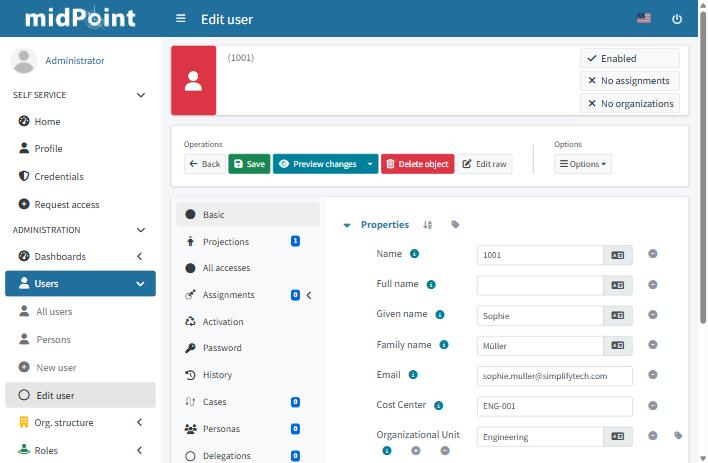
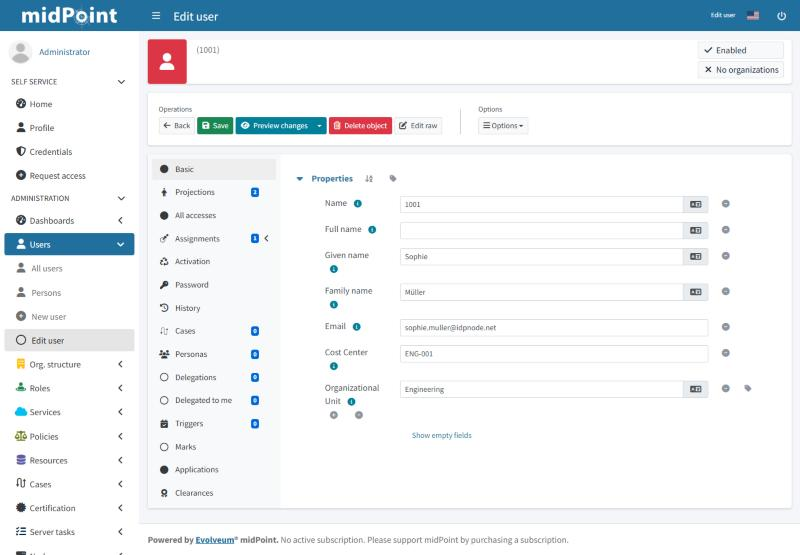
Mark LDAP provisioning done and refresh screenshots

diff --git a/midpoint-iam-lab/README.md b/midpoint-iam-lab/README.md
@@ -1,8 +1,8 @@
 # HR-Driven Identity Lifecycle with midPoint
 
-In this lab I set up Evolveum midPoint so that HR is the source of truth for who works here. My HR system, SimplifyHR, holds the employee records. midPoint reads them, creates a user for each person, and keeps those users in line with HR from then on. OpenLDAP (`dc=idpnode,dc=net`) is set up as the directory that accounts will be pushed out to next.
+In this lab I set up Evolveum midPoint so that HR is the source of truth for who works here. My HR system, SimplifyHR, holds the employee records. midPoint reads them, creates a user for each person, and keeps those users in line with HR from then on. From there, midPoint pushes each person out to OpenLDAP (`dc=idpnode,dc=net`) as a directory account.
 
-> **Where it's at:** Phase 1, getting people from HR into midPoint and keeping them in sync, is done and working. Phase 2, pushing them out to LDAP, is what I'm working on now. See the [roadmap](#roadmap).
+> **Where it's at:** Both phases are done and working. Phase 1 gets people from HR into midPoint and keeps them in sync. Phase 2 provisions them out to LDAP through a role. The full pipeline is written up in [joiner-leaver](joiner-leaver/). See the [roadmap](#roadmap) for what's next.
 
 ---
 
@@ -11,7 +11,7 @@ In this lab I set up Evolveum midPoint so that HR is the source of truth for who
 ```mermaid
 flowchart LR
     HR["SimplifyHR<br/>hr.csv<br/>(system of record)"] -- "CSV connector<br/>inbound mappings" --> MP["midPoint<br/>Identity repository"]
-    MP -. "LDAP connector<br/>outbound mappings<br/>(Phase 2)" .-> LDAP["OpenLDAP<br/>dc=idpnode,dc=net"]
+    MP -- "LDAP connector<br/>outbound mappings<br/>(Employee role)" --> LDAP["OpenLDAP<br/>dc=idpnode,dc=net"]
     ADM["phpLDAPadmin"] --- LDAP
 ```
 
@@ -89,7 +89,7 @@ Here's user `1001` with every HR-sourced attribute filled in, and the HR account
 ![User 1001](screenshots/08-user-1001-attributes.jpg)
 ![User 1001 projection](screenshots/09-user-1001-projection.jpg)
 
-And the LDAP directory, ready for Phase 2:
+And the LDAP directory as it looked before Phase 2, with the base set up and empty. The provisioned entries are in [joiner-leaver](joiner-leaver/):
 
 ![LDAP](screenshots/12-ldap-directory.jpg)
 
@@ -106,7 +106,7 @@ And the LDAP directory, ready for Phase 2:
 
 ## Roadmap
 
-- [ ] **Phase 2: LDAP provisioning.** Add an LDAP resource for `dc=idpnode,dc=net` with outbound mappings (`uid`, `cn`, `sn`, `givenName`, `mail`), putting users under `ou=people`.
+- [x] **Phase 2: LDAP provisioning.** Add an LDAP resource for `dc=idpnode,dc=net` with outbound mappings (`uid`, `cn`, `sn`, `givenName`, `mail`), putting users under `ou=people`. Done: the DN script builds `uid=<empid>,ou=people,dc=idpnode,dc=net`, I also map `departmentNumber` and `employeeNumber`, and an auto-assigned `Employee` role creates the account.
 - [x] Recompute all users so they pick up the current email mapping.
 - [ ] Add a `fullName` mapping (`givenName + ' ' + familyName`).
 - [ ] Create org units per department and birthright roles assigned from `department`.
@@ -121,10 +121,13 @@ And the LDAP directory, ready for Phase 2:
 ├── README.md
 ├── docs/walkthrough.md               How I built it, step by step
 ├── config/
-│   ├── simplifyhr-resource.xml       The midPoint resource definition
+│   ├── simplifyhr-resource.xml       The HR resource definition (inbound)
+│   ├── outbound-mappings.xml         LDAP outbound mappings and correlation
+│   ├── employee-role.xml             Role that creates the LDAP account
 │   └── scripts/
 │       ├── email-generation.groovy
-│       └── status-to-activation.groovy
+│       ├── status-to-activation.groovy
+│       └── ldap-dn.groovy
 ├── joiner-leaver/                    The joiner / leaver use case write-up
 ├── sample-data/hr.csv                The HR file format (one sample row)
 └── screenshots/
@@ -132,4 +135,4 @@ And the LDAP directory, ready for Phase 2:
 
 ## Skills this covers
 
-Identity lifecycle management (joiner/leaver) · designing around an authoritative source · midPoint resource configuration · ConnId CSV connector · inbound mappings and Groovy expressions · correlation and sync policy · reconciliation · LDAP directory design
+Identity lifecycle management (joiner/leaver) · designing around an authoritative source · midPoint resource configuration · ConnId CSV connector · inbound mappings and Groovy expressions · correlation and sync policy · reconciliation · outbound mappings and DN construction · role-based provisioning · LDAP directory design

diff --git a/midpoint-iam-lab/joiner-leaver/README.md b/midpoint-iam-lab/joiner-leaver/README.md
@@ -31,9 +31,13 @@ User 1001's linked accounts: the SimplifyHR record and the OpenLDAP entry at `ui
 
 The `Employee` business role. Its one inducement is an OpenLDAP account, so membership in the role is what gives someone a directory account.
 
-![LDAP entries under ou=people](ldap-people-entries.jpg)
+![LDAP tree under ou=people](ldap-people-tree.png)
 
-The directory in phpLDAPadmin: `ou=people` filled with one entry per employee. Sophie Müller's entry shows the values that came all the way from HR: `cn`, `departmentNumber`, email, `employeeNumber` and `givenName`.
+The directory tree in phpLDAPadmin: `ou=people` now holds `uid=1001` to `uid=1007`, one for each employee, all created by midPoint. The eighth entry, `uid=administrator`, is midPoint's built-in admin. It got an LDAP account because the `Employee` role is auto-assigned to every enabled user, admin included. Narrowing that rule to HR-sourced users would keep accounts like this out of the people branch.
+
+![LDAP entry for uid=1001](ldap-people-entries.jpg)
+
+Sophie Müller's entry (`uid=1001`) up close, showing the values that came all the way from HR: `cn`, `departmentNumber`, email, `employeeNumber` and `givenName`.
 
 ![Resources](ldap-resources.jpg)
 

diff --git a/midpoint-iam-lab/docs/walkthrough.md b/midpoint-iam-lab/docs/walkthrough.md
@@ -56,6 +56,6 @@ I opened user `1001` to make sure everything had come through:
 - On the **Basic** tab, the name, given and family names, email, cost center and org unit all came from HR (`08-user-1001-attributes.jpg`).
 - Under **Projections**, there was exactly one SimplifyHR account (`09-user-1001-projection.jpg`).
 
-## What's next: Phase 2 (LDAP)
+## Phase 2: LDAP
 
-The OpenLDAP base `dc=idpnode,dc=net` is up and ready (`12-ldap-directory.jpg`). Next I'm adding an LDAP resource with outbound mappings, so every midPoint user gets provisioned into `ou=people,dc=idpnode,dc=net`.
+After this I connected OpenLDAP (`dc=idpnode,dc=net`, `12-ldap-directory.jpg` shows the empty base) as a second resource with outbound mappings, and created an `Employee` role that gives every enabled user an account under `ou=people`. That half of the pipeline, with its config and screenshots, is written up in [joiner-leaver](../joiner-leaver/).
